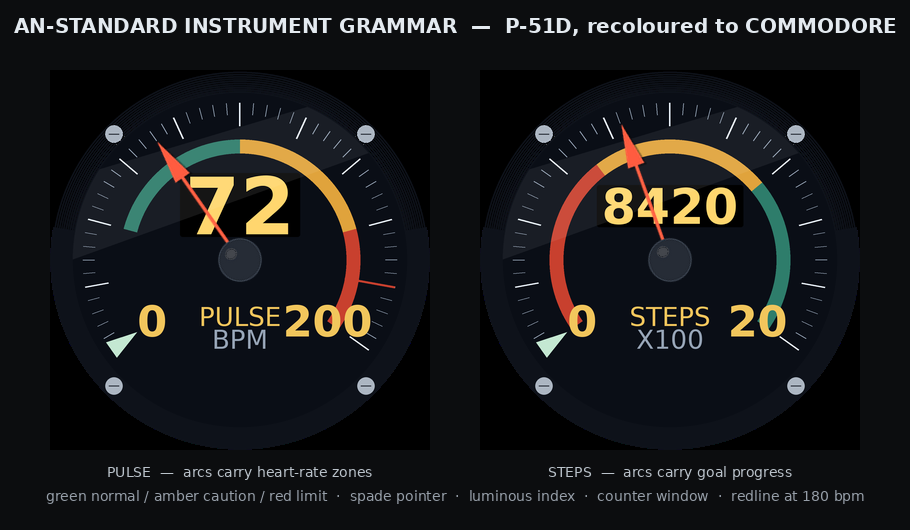
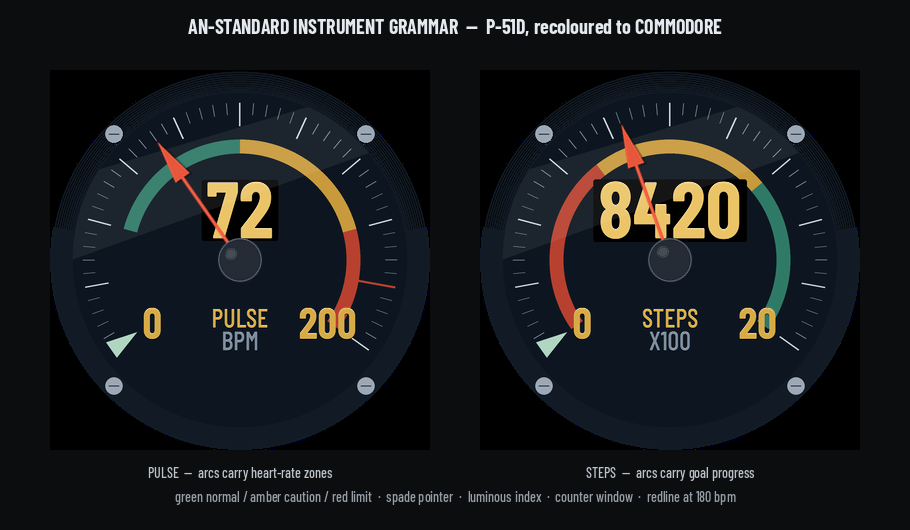
Gauges: colours sampled off the plate, condensed type, and depth
The gauges were right in structure and wrong in finish — the owner's read was
that they did not match the rest of the watch and looked flat. Both were fair.

COLOUR. The first pass invented an amber and a neutral charcoal. The palette
is now measured off cm_dial.png itself: the ink is #D6AA47, which is the
plate's wing emblem exactly, the dial face is the plate's navy darkened for a
well, and the bezel is the plate's steel. A palette picked alongside a face
is always slightly wrong in a way that is hard to name and easy to see.

TYPE. Barlow Condensed replaces DejaVu Sans. Instrument lettering is a
condensed grotesque so it looks right, and the condensation buys horizontal
room in the counter window, which was the one thing capping the steps
readout. Form and function pulling the same way for once.

DEPTH, which turned out to be two problems.

Baked text — the scale numerals and legends we draw ourselves — gets a true
engrave: a dark pass offset down, a faint light pass offset up, the fill on
top. Three draws, and most of the difference between etched and printed.

Live text could not be fixed that way, and the reason is the useful part: a
BitmapFont carries a color attribute and the runtime TINTS EVERY GLYPH WITH
IT, so anything baked into a glyph PNG is discarded. That is why the existing
m_*.png glyphs are pure white with an alpha channel, and why one flat fill is
all a single PartText can ever produce. So the face draws each number TWICE —
[…]

diff --git a/tools/make_an_gauge.py b/tools/make_an_gauge.py
@@ -65,32 +65,63 @@ from pathlib import Path
 from PIL import Image, ImageDraw, ImageFilter, ImageFont
 
 REPO = Path(__file__).resolve().parent.parent
-FONT = "/usr/share/fonts/truetype/dejavu/DejaVuSans-Bold.ttf"
-FONT_R = "/usr/share/fonts/truetype/dejavu/DejaVuSans.ttf"
+# Barlow Condensed, not DejaVu. A condensed grotesque is what instrument
+# lettering actually is, and the condensation pays twice: it looks right, and
+# it fits more digits into the counter window, which is the one thing that
+# was capping the steps readout.
+import os
+_HOME = os.path.expanduser("~/.local/share/fonts")
+FONT = f"{_HOME}/BarlowCondensed-Bold.ttf"
+FONT_R = f"{_HOME}/BarlowCondensed-Medium.ttf"
+if not os.path.exists(FONT):                       # fall back, never fail
+    FONT = "/usr/share/fonts/truetype/dejavu/DejaVuSans-Bold.ttf"
+    FONT_R = "/usr/share/fonts/truetype/dejavu/DejaVuSans.ttf"
 SS = 4
 
 # COMMODORE's palette. Structure is the P-51's; the hues are the watch's.
+# SAMPLED OFF THE PLATE, not invented. cm_dial's wing emblem is #D6AA47 and
+# its field is #202F3E; the first pass guessed a lemon amber and a neutral
+# charcoal and read as a different watch bolted onto this one.
 PALETTE = {
-    "well":     (14, 18, 26, 255),
-    "face":     (10, 14, 22, 255),
-    "face_lo":  (5, 8, 13, 255),
-    "grad":     (232, 240, 248, 255),      # graduations, near white
-    "grad_dim": (150, 164, 182, 255),      # minors, quieter
-    "ink":      (242, 198, 92, 255),       # numerals and legend, amber
-    "counter":  (255, 214, 110, 255),      # the big readout
-    "lume":     (196, 232, 210, 255),      # the index triangle
-    "pointer":  (255, 92, 64, 255),        # hot, and unique on the dial
-    "arc_ok":   (46, 125, 107, 255),       # "green" moved onto the palette
-    "arc_warn": (224, 163, 60, 255),       # "yellow"
-    "arc_lim":  (200, 64, 46, 255),        # red stays red
-    "bezel":    (58, 66, 78, 255),
-    "screw":    (172, 182, 194, 255),
+    "well":     (18, 27, 37, 255),         # navy-tinted, like the plate
+    "face":     (13, 22, 32, 255),
+    "face_lo":  (7, 12, 18, 255),
+    "grad":     (200, 212, 224, 255),      # off-white, not stark
+    "grad_dim": (124, 140, 158, 255),
+    "ink":      (214, 170, 71, 255),       # the wing gold exactly
+    "counter":  (235, 196, 104, 255),      # a shade up, for the big readout
+    "lume":     (176, 214, 194, 255),
+    "pointer":  (232, 86, 60, 255),        # hot, and unique on the dial
+    "arc_ok":   (47, 122, 102, 255),
+    "arc_warn": (200, 154, 60, 255),       # the gold family, not "yellow"
+    "arc_lim":  (184, 64, 47, 255),        # red stays red
+    "bezel":    (92, 104, 116, 255),       # the plate's steel
+    "screw":    (156, 168, 182, 255),
+    "emboss_lo": (0, 0, 0, 150),           # text depth: cut below
+    "emboss_hi": (255, 255, 255, 46),      # and catch light above
 }
 
 # AN convention: the scale occupies a sweep with a gap at the bottom, so the
 # two ends never touch and the origin is unambiguous.
 START_DEG = 235.0
 SWEEP_DEG = 250.0
+
+
+def engrave(d, xy, text, font, fill, p, anchor="mm", depth=1.0):
+    """Text with depth, instead of text laid flat on the dial.
+
+    Real instrument lettering is either etched into the face or raised off
+    it; either way it catches light on one edge and casts into the other.
+    Flat fill is the single thing that most makes a drawn dial look drawn.
+    So: a dark pass offset down, a faint light pass offset up, the fill on
+    top. It is three draws and it is most of the difference.
+    """
+    x, y = xy
+    o = max(1.0, depth * SS * 0.9)
+    d.text((x, y + o), text, font=font, fill=p["emboss_lo"], anchor=anchor)
+    d.text((x, y - o * 0.7), text, font=font, fill=p["emboss_hi"],
+           anchor=anchor)
+    d.text((x, y), text, font=font, fill=fill, anchor=anchor)
 
 
 def _at(c, r, deg):
@@ -178,8 +209,7 @@ def gauge(size: int, label: str, unit: str, numerals: list[tuple[float, str]],
         f_num = f_leg = ImageFont.load_default()
     for f, txt in numerals:
         deg = START_DEG + SWEEP_DEG * f
-        d.text(_at(c, r_maj * 0.80, deg), txt, font=f_num, fill=p["ink"],
-               anchor="mm")
+        engrave(d, _at(c, r_maj * 0.80, deg), txt, f_num, p["ink"], p)
 
     # 7 INDEX MARK — luminous triangle at the origin
     deg = START_DEG
@@ -193,10 +223,10 @@ def gauge(size: int, label: str, unit: str, numerals: list[tuple[float, str]],
     # in it. That gap is the only part of the face with nothing competing
     # for it, so the legend goes there.
     if label:
-        d.text((c, c * 1.30), label, font=f_leg, fill=p["ink"], anchor="mm")
+        engrave(d, (c, c * 1.30), label, f_leg, p["ink"], p, depth=0.7)
     if unit:
-        d.text((c, c * 1.42), unit, font=f_leg, fill=p["grad_dim"],
-               anchor="mm")
+        engrave(d, (c, c * 1.42), unit, f_leg, p["grad_dim"], p,
+                depth=0.7)
     return img, (c, r_face, r_maj, p)
 
 
@@ -274,7 +304,7 @@ def finish(img, geom, size: int, counter: str | None, bezel: bool,
                              bb[2] + pad * 2, bb[3] + pad],
                             radius=pad, fill=(0, 0, 0, 185))
         if counter is not None:
-            d.text((c, cy), counter, font=f_c, fill=p["counter"], anchor="mm")
+            engrave(d, (c, cy), counter, f_c, p["counter"], p, depth=1.4)
 
     # 12 GLASS — one diagonal highlight, low alpha, clipped to the face
     gl = Image.new("RGBA", (S, S), (0, 0, 0, 0))
@@ -331,6 +361,46 @@ def build(key: str, size: int, counter: str | None = None,
 # face needs this to place its live text over the baked recess, and it must
 # come from the same constant the art was drawn with or the two drift.
 COUNTER_CY = 0.36       # c * 0.72 expressed against the full sprite
+
+
+GLYPH_H = 44           # native cell; the face scales it down per readout
+
+
+def bitmap_glyphs(out_dir, prefix="cp"):
+    """The live-readout font, as WFF BitmapFont characters.
+
+    WHY THESE ARE WHITE. A BitmapFont carries a `color` attribute and the
+    runtime tints every glyph with it, so any colour baked in here is thrown
+    away. That is also why the readouts look flat: one flat fill is all a
+    single PartText can produce. Depth comes from the FACE drawing the number
+    twice — a dark pass offset down, the gold on top — which is two ordinary
+    PartText parts and no new construct.
+
+    All glyphs share one measured vertical cell so digits sit on a common
+    baseline; cropping each to its own ink box and rescaling makes a "1"
+    as tall as an "8" and the readout wobbles as the value changes.
+    """
+    from PIL import Image, ImageDraw, ImageFont
+    chars = [str(i) for i in range(10)] + ["%"]
+    safe = {"%": "pct"}
+    f = ImageFont.truetype(FONT, GLYPH_H * SS)
+    boxes = [f.getbbox(c) for c in chars]
+    top, bot = min(b[1] for b in boxes), max(b[3] for b in boxes)
+    cell = bot - top
+    scale = GLYPH_H / cell
+    bear = round(SS * 1.1)
+    widths = {}
+    for ch in chars:
+        b = f.getbbox(ch)
+        w = max(1, b[2] - b[0])
+        img = Image.new("RGBA", (w + 2 * bear, cell), (0, 0, 0, 0))
+        ImageDraw.Draw(img).text((bear - b[0], -top), ch, font=f,
+                                 fill=(255, 255, 255, 255))
+        img = img.resize((max(1, round(img.width * scale)), GLYPH_H),
+                         Image.LANCZOS)
+        img.save(out_dir / f"{prefix}_{safe.get(ch, ch)}.png", optimize=True)
+        widths[ch] = img.width
+    return widths
 
 
 def demo(out: Path) -> None:

diff --git a/tools/make_pro_face.py b/tools/make_pro_face.py
@@ -159,6 +159,24 @@ START_DEG, SWEEP_DEG = 235.0, 250.0
 COUNTER_CY = 0.36        # must match make_an_gauge.COUNTER_CY
 
 
+def readout(name: str, x: int, y: int, w: int, h: int, size: int,
+            src: str, fmt: str = "%d", colour: str = "#EBC468",
+            amb: int = 0) -> list[str]:
+    """One number, drawn as a shadow pass and a fill pass."""
+    def part(tag, dx, dy, col, alpha):
+        return [f'    <PartText name="{name}{tag}" x="{x + dx}" '
+                f'y="{y + dy}" width="{w}" height="{h}" alpha="{alpha}">',
+                f'      <Variant mode="AMBIENT" target="alpha" value="{amb}" '
+                'duration="0.4" startOffset="0.2" interpolation="LINEAR" />',
+                f'      <Text align="CENTER"><BitmapFont family="pro" '
+                f'size="{size}" color="{col}"><Template>{fmt}'
+                f'<Parameter expression="[{src}]" /></Template>'
+                '</BitmapFont></Text>',
+                '    </PartText>']
+    d = max(1, round(size * 0.075))
+    return part("_sh", d, d, "#000000", 165) + part("", 0, 0, colour, 255)
+
+
 def instruments(pre: str) -> list[str]:
     """The AN gauges, their needles, and the big live readouts.
 
@@ -187,36 +205,21 @@ def instruments(pre: str) -> list[str]:
               f'/ {c["hi"]}" />',
               f'      <Image resource="{pre}_ptr_{key}" />',
               '    </PartImage>']
-        # the live number, centred on the baked counter recess
+        # The live number, centred on the baked counter recess, and drawn
+        # TWICE. A BitmapFont glyph is tinted flat by the runtime, so a
+        # single PartText can only ever be a flat fill — which is exactly
+        # why the readouts looked pasted on. A dark pass offset down-right
+        # with the gold over it gives the digits an edge to sit on, using
+        # two ordinary parts and no construct the line has not shipped.
         h = int(c["digits"] * 1.5)
         ty = int(round(y + n * COUNTER_CY - h / 2))
-        o += [f'    <PartText name="z21_{key}_read" x="{x}" y="{ty}" '
-              f'width="{n}" height="{h}">',
-              '      <Variant mode="AMBIENT" target="alpha" value="0" '
-              'duration="0.4" startOffset="0.2" interpolation="LINEAR" />',
-              f'      <Text align="CENTER"><BitmapFont family="cmd" '
-              f'size="{c["digits"]}" color="#FFD66E"><Template>%d'
-              f'<Parameter expression="[{c["src"]}]" /></Template>'
-              f'</BitmapFont></Text>',
-              '    </PartText>']
+        o += readout(f"z21_{key}", x, ty, n, h, c["digits"], c["src"])
 
     # reserve and date, also enlarged — "all of the important numbers"
-    o += ['    <PartText name="z20_reserve_pct" x="196" y="80" width="88" '
-          'height="34">',
-          '      <Variant mode="AMBIENT" target="alpha" value="130" '
-          'duration="0.4" startOffset="0.2" interpolation="LINEAR" />',
-          '      <Text align="CENTER"><BitmapFont family="cmd" size="22" '
-          'color="#F2C65C"><Template>%d%%<Parameter '
-          'expression="[BATTERY_PERCENT]" /></Template></BitmapFont></Text>',
-          '    </PartText>',
-          '    <PartText name="z23_date" x="320" y="226" width="64" '
-          'height="34">',
-          '      <Variant mode="AMBIENT" target="alpha" value="150" '
-          'duration="0.4" startOffset="0.2" interpolation="LINEAR" />',
-          '      <Text align="CENTER"><BitmapFont family="cmd" size="24" '
-          'color="#F2C65C"><Template>%d<Parameter expression="[DAY]" />'
-          '</Template></BitmapFont></Text>',
-          '    </PartText>']
+    o += readout("z20_reserve", 196, 80, 88, 34, 22, "BATTERY_PERCENT",
+                 fmt="%d%%", colour="#D6AA47", amb=130)
+    o += readout("z23_date", 320, 226, 64, 34, 24, "DAY",
+                 colour="#D6AA47", amb=150)
     return o
 
 
@@ -247,7 +250,18 @@ def build_xml(face: str) -> str:
 
     base = REPO / f"watchfaces/{face}/app/src/main/res/raw/watchface.xml"
     src = base.read_text()
-    a(src[src.index("  <BitmapFonts>"):src.index("</BitmapFonts>") + 15])
+    # The "pro" family replaces the carried-over "cmd": Barlow Condensed
+    # rather than DejaVu, because instrument lettering is a condensed
+    # grotesque and because the condensation buys digits in the counter
+    # window. Widths come from the glyphs that were actually rendered.
+    a('  <BitmapFonts>')
+    a('    <BitmapFont name="pro">')
+    for ch, w in sorted(FONT_WIDTHS.items()):
+        nm = "pct" if ch == "%" else ch
+        a(f'      <Character name="{ch}" resource="cp_{nm}" width="{w}" '
+          f'height="{GLYPH_H}" />')
+    a('    </BitmapFont>')
+    a('  </BitmapFonts>')
     a('  <Scene backgroundColor="#FF000000">')
 
     # plate
@@ -445,6 +459,10 @@ def build_xml(face: str) -> str:
     return "\n".join(o) + "\n"
 
 
+FONT_WIDTHS: dict = {}
+GLYPH_H = 44
+
+
 def an_gauges(face: str, dd: Path) -> None:
     """Draw the sub-dials as AN-standard aircraft instruments.
 
@@ -465,8 +483,12 @@ def an_gauges(face: str, dd: Path) -> None:
         pre = cfg(face)["prefix"]
         gimg.save(dd / f"{pre}_gauge_{key}.png", optimize=True)
         pimg.save(dd / f"{pre}_ptr_{key}.png", optimize=True)
+    global FONT_WIDTHS, GLYPH_H
+    FONT_WIDTHS = G.bitmap_glyphs(dd, prefix="cp")
+    GLYPH_H = G.GLYPH_H
     print("  sub-dials redrawn as AN aircraft instruments at "
           f"{DIALS['steps']['size']}px")
+    print(f"  {len(FONT_WIDTHS)} Barlow Condensed glyphs for the readouts")
 
 
 def main(argv: list[str]) -> int:
@@ -478,10 +500,11 @@ def main(argv: list[str]) -> int:
     dst = REPO / f"watchfaces/{face}-pro"
     draw = dst / "app/src/main/res/raw"
     draw.mkdir(parents=True, exist_ok=True)
-    xml = build_xml(face)
-    (draw / "watchface.xml").write_text(xml)
-
-    # carry over the instrument art the tail references
+    # ORDER MATTERS, and getting it wrong once cost a whole render: the
+    # base face is copied FIRST and the PRO instruments generated over the
+    # top. Generating first meant COMMODORE's own 61px cm_gauge_*.png
+    # overwrote the AN gauges on the way past, and the face came out with
+    # empty wells and floating numbers.
     sd = REPO / f"watchfaces/{face}/app/src/main/res/drawable"
     dd = dst / "app/src/main/res/drawable"
     dd.mkdir(parents=True, exist_ok=True)
@@ -493,6 +516,11 @@ def main(argv: list[str]) -> int:
                                       "_ov_")) or p.name == "preview.png":
             shutil.copy2(p, dd / p.name)
             n += 1
+    # now the PRO instruments, over the top of what was just copied, and
+    # the XML after them because it declares the glyph widths they produce
+    an_gauges(face, dd)
+    (draw / "watchface.xml").write_text(build_xml(face))
+
     # The launcher icon starts as the base face's, so the project builds
     # before it has ever been rendered. Once a render exists it is used
     # instead — a PRO face advertising COMMODORE's window in the picker is
@@ -504,8 +532,6 @@ def main(argv: list[str]) -> int:
             im.convert("RGB").resize((192, 192), Image.LANCZOS).save(
                 dd / "preview.png", optimize=True)
         print("  preview.png regenerated from the PRO render")
-
-    an_gauges(face, dd)
 
     print(f"  watchface.xml -> {(draw / 'watchface.xml').relative_to(REPO)}")
     print(f"  {n} instrument drawables carried over from {face}")

diff --git a/docs/plans/AIRCRAFT_INSTRUMENT_GRAMMAR.md b/docs/plans/AIRCRAFT_INSTRUMENT_GRAMMAR.md
@@ -167,3 +167,61 @@ Per face, only `PALETTE` changes. HAYATE would go white-on-black with a red
 pointer; HOG-WILD wants the A-10's black-and-green. **The grammar does not
 change between faces — only the hues do.** That is what makes it a house
 method rather than one face's styling.
+
+---
+
+## 7. Typography and colour — matching the watch, not decorating it
+
+Added after the first pass looked, in the owner's words, like it did not
+belong and read too flat.
+
+### The colours are sampled, not chosen
+
+The first pass invented an amber (`#F2C65C`) and a neutral charcoal, and the
+result read as a different watch bolted onto this one. The palette is now
+**measured off `cm_dial.png` itself**:
+
+| Role | Value | Where it came from |
+|---|---|---|
+| ink / numerals | `#D6AA47` | the plate's wing emblem, exactly |
+| dial face | `#0D1620` | the plate's navy field, darkened for a well |
+| bezel | `#5C6874` | the plate's steel |
+| counter | `#EBC468` | one shade up from the ink, for the readout |
+
+**Sample the artwork.** A palette picked alongside a face will always be
+slightly wrong in a way that is hard to name and easy to see.
+
+### The font is condensed, and it pays twice
+
+**Barlow Condensed** replaces DejaVu Sans. Instrument lettering *is* a
+condensed grotesque, so it looks right — and the condensation buys horizontal
+room in the counter window, which was the single thing capping the steps
+readout. Form and function pulling the same way.
+
+### Depth: two different problems, two different fixes
+
+**Baked text** — the scale numerals and legends, drawn by us into the sprite.
+These get a true engrave: a dark pass offset down, a faint light pass offset
+up, the fill on top. Three draws, and it is most of the difference between a
+dial that looks etched and one that looks printed.
+
+**Live text** — the readouts, drawn by the runtime from the BitmapFont. These
+could not be fixed the same way, and the reason is worth recording:
+
+> A BitmapFont carries a `color` attribute and **the runtime tints every
+> glyph with it**, so any colour or shading baked into a glyph PNG is thrown
+> away. The existing `m_*.png` glyphs are pure white with an alpha channel
+> for exactly this reason. One flat fill is all a single `PartText` can
+> produce — which is precisely why the numbers looked pasted on.
+
+So the depth comes from the **face drawing each number twice**: a dark pass
+offset down-right at 165 alpha, the gold over it. Two ordinary `PartText`
+parts, no new construct, and it works under either tint mode.
+
+### One ordering bug, recorded because it cost a render
+
+Assets are copied from the base face **first**, then the PRO instruments
+generated over the top. Generating first meant COMMODORE's own 61px
+`cm_gauge_*.png` overwrote the AN gauges on the way past, and the face came
+out with empty wells and floating numbers — which looked like a layout bug
+and was a filesystem one.
